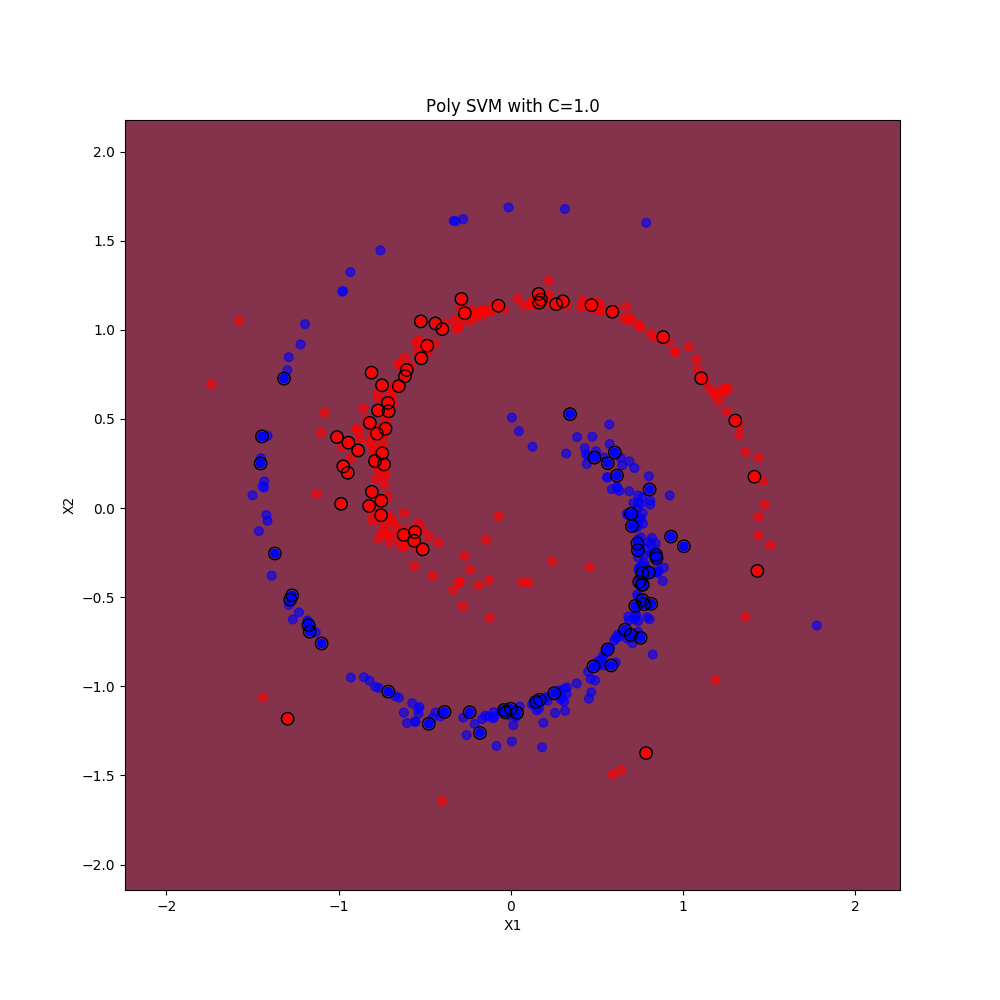
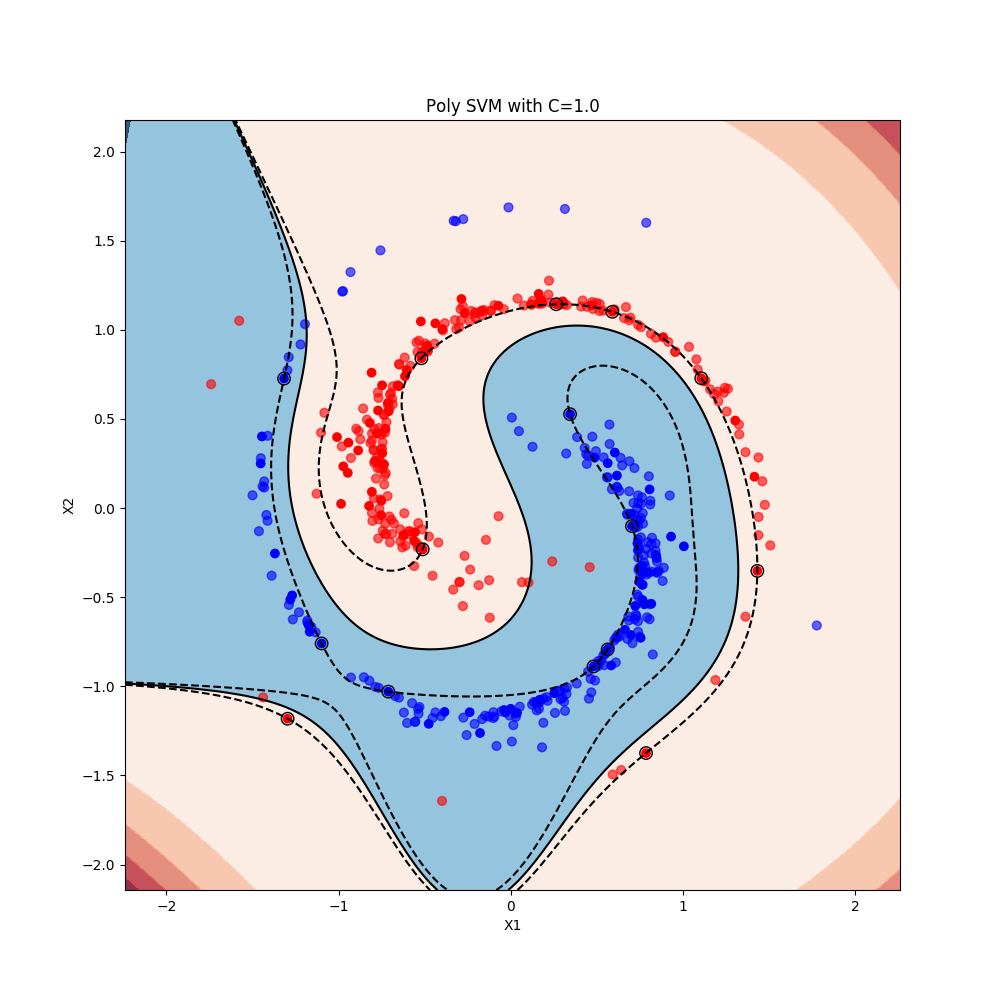
Renamed and added plots. Correction of ex2b

diff --git a/Assignment3/svm.py b/Assignment3/svm.py
@@ -146,7 +146,7 @@ def ex_2_b(x_train, y_train, x_test, y_test):
     highest_test_score = max(test_score)
     degree = test_score.index(highest_test_score) + 1
     print("Degree " + str(degree) + " produces the Highest Test Score " + str(highest_test_score))
-    svc.degree = highest_test_score
+    svc.degree = degree
     svc.fit(x_train, y_train)
     plot_svm_decision_boundary(svc, x_train, y_train, x_test, y_test)
 
